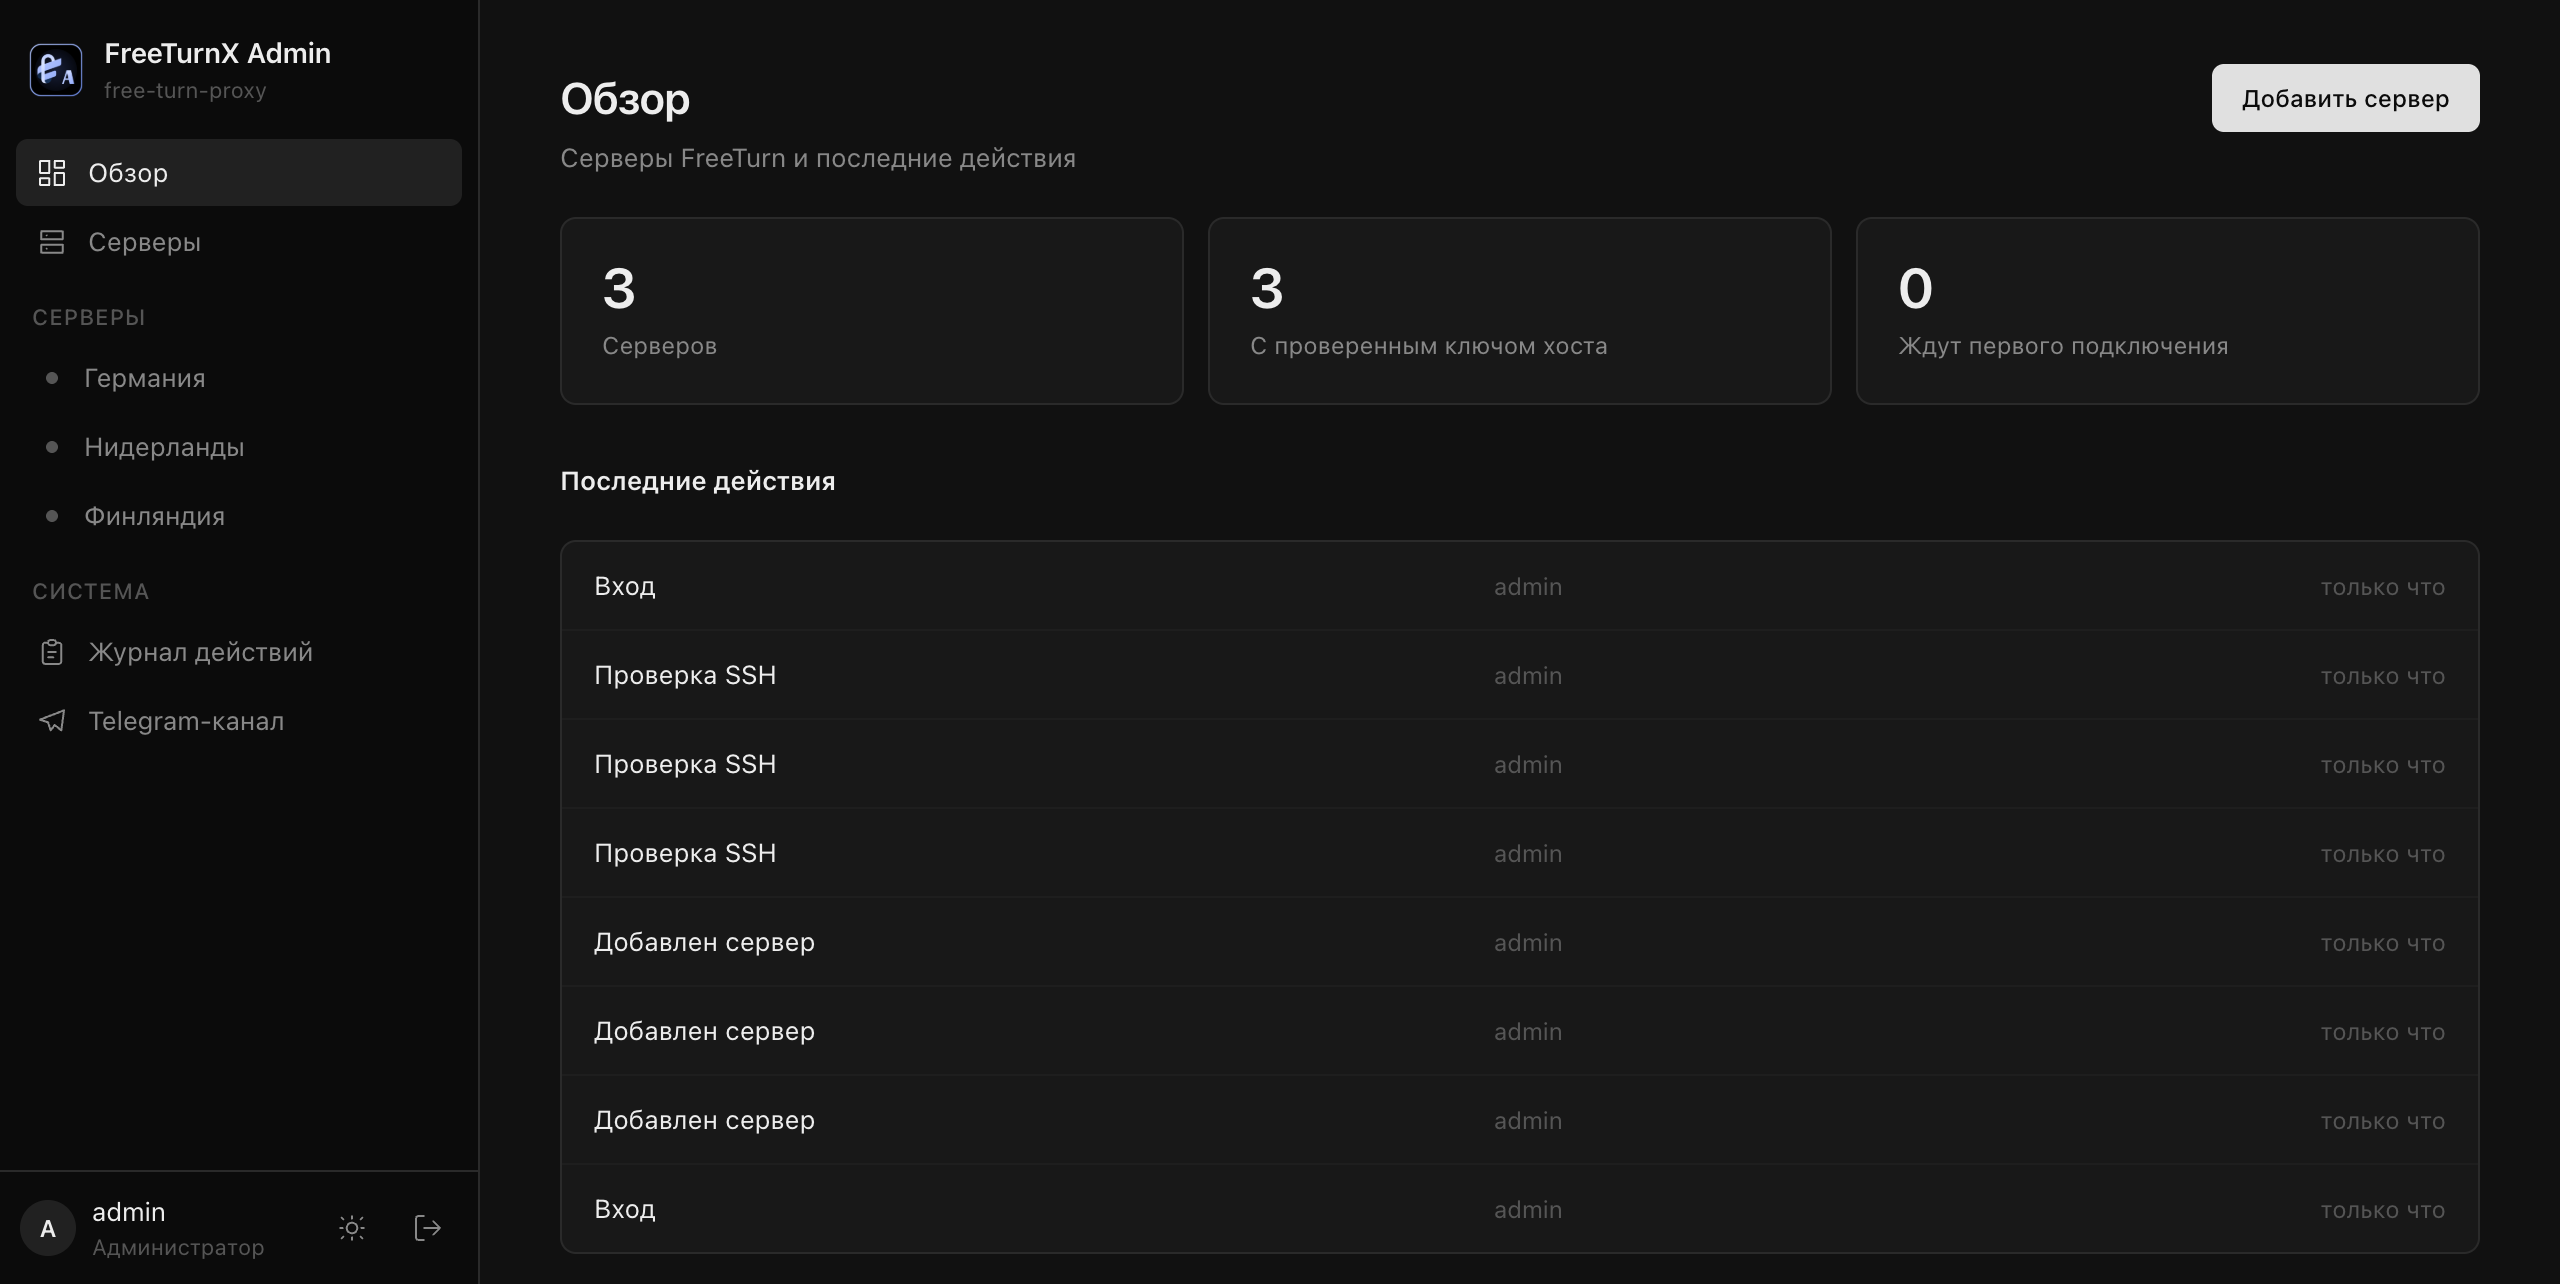
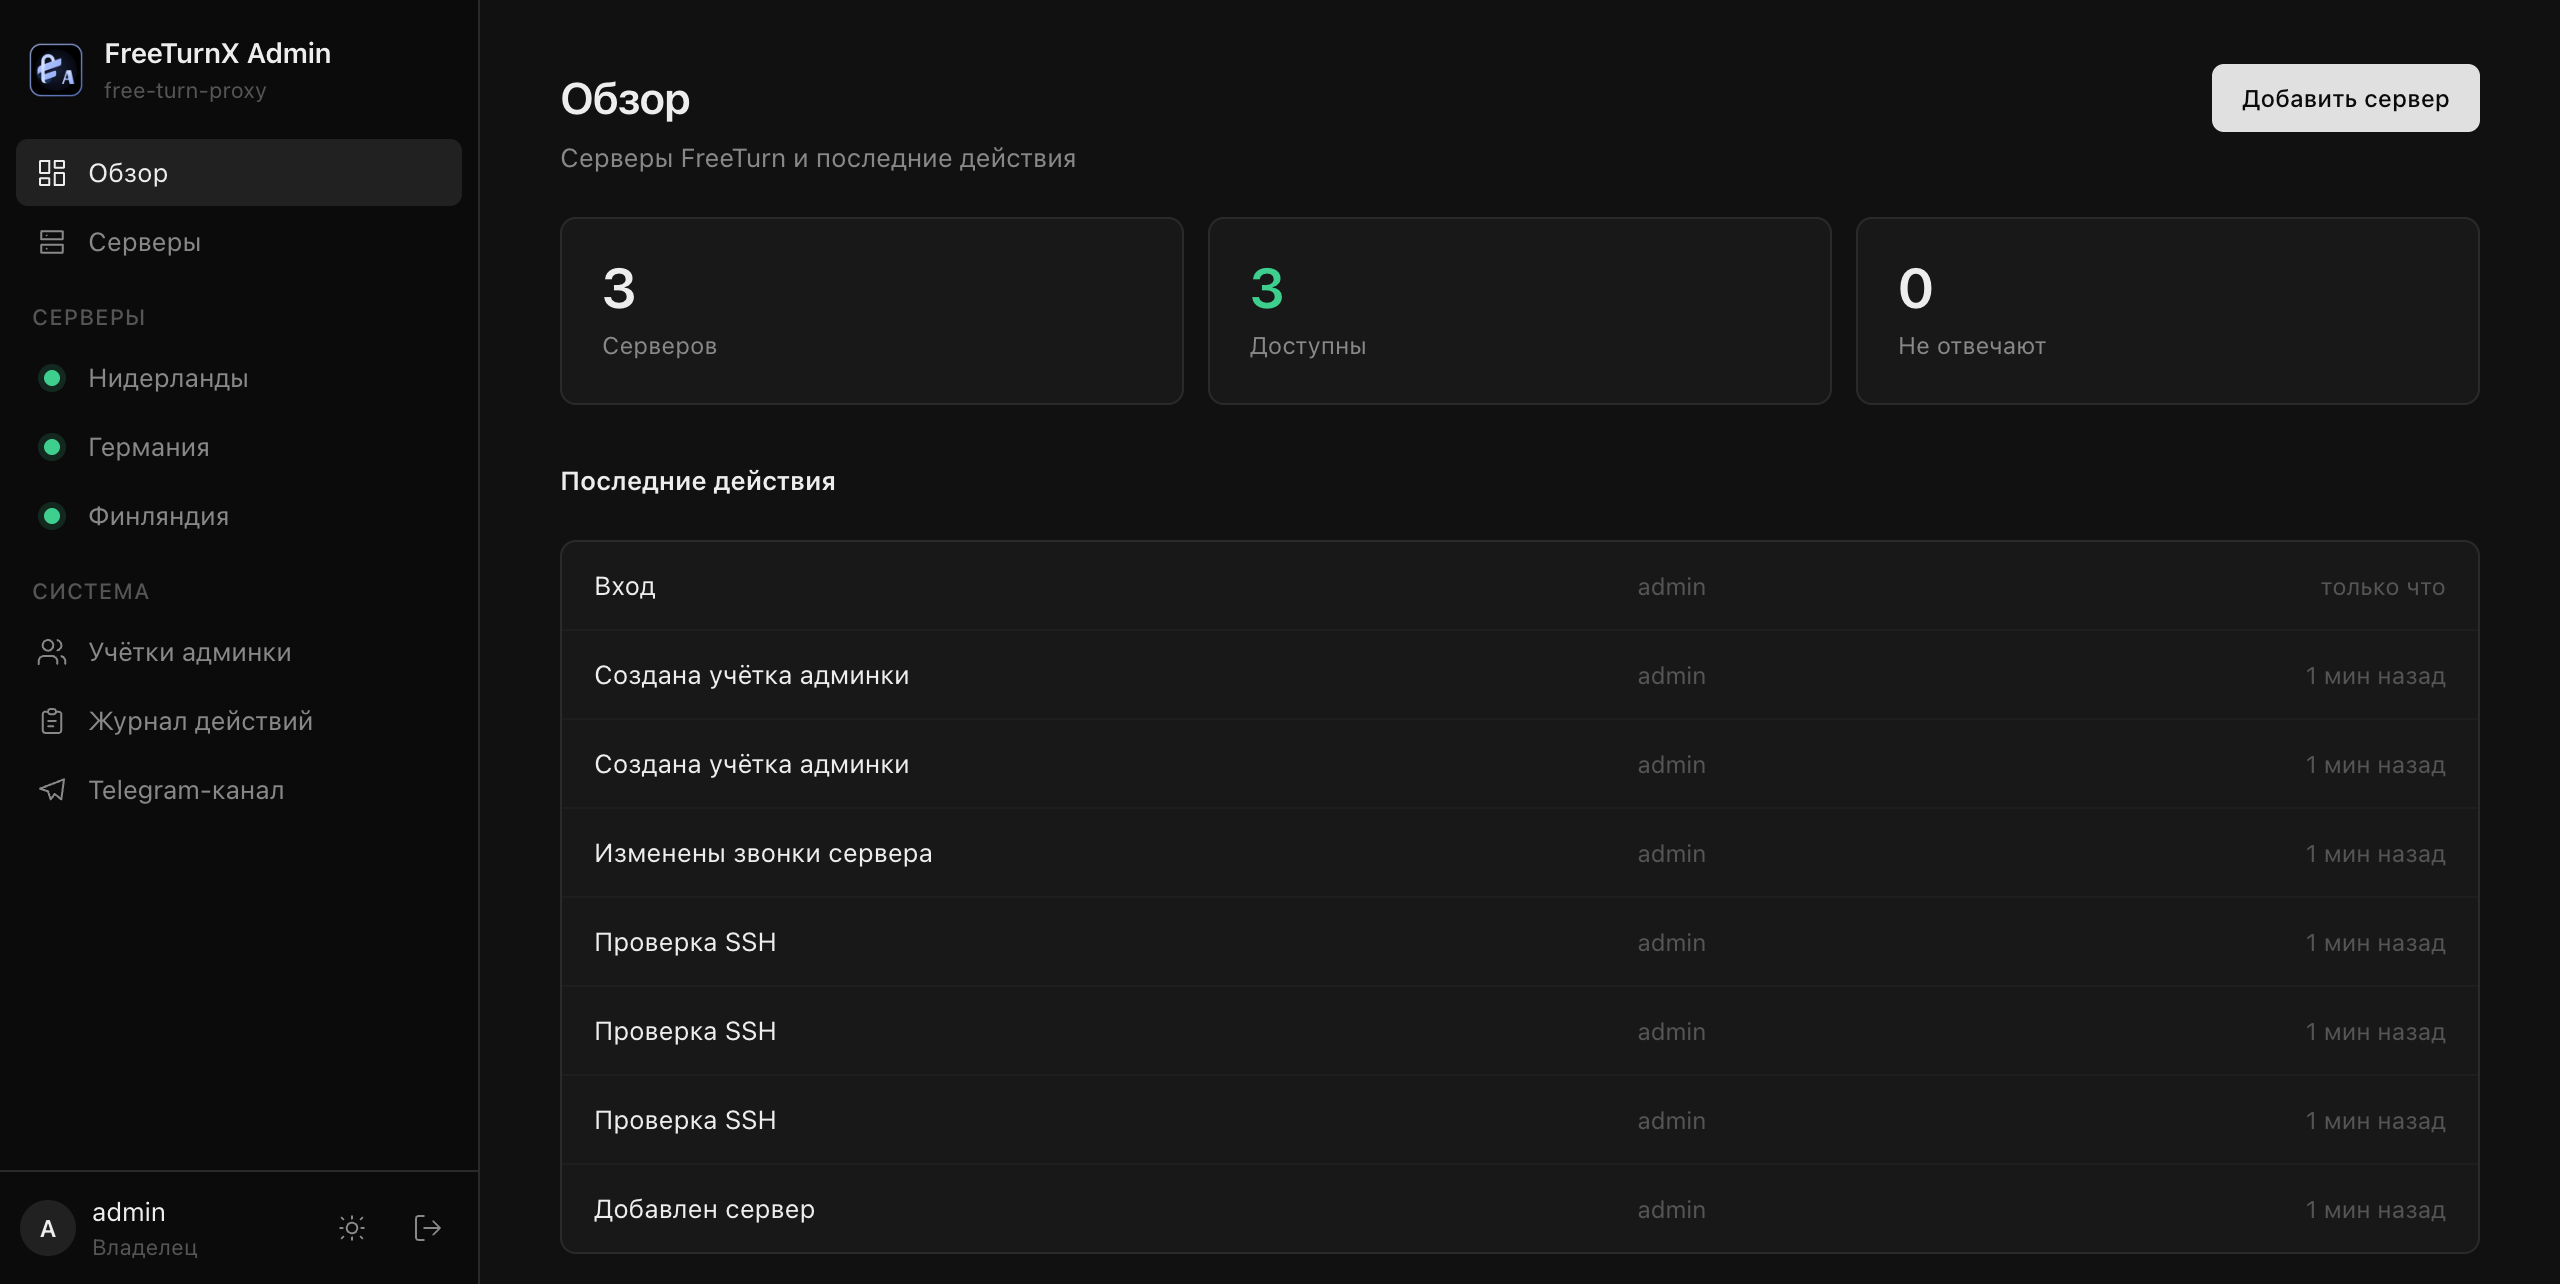
Remove the roles legend; inline role select styling; call audit label; fresh README screenshots

diff --git a/web/src/styles.css b/web/src/styles.css
@@ -297,7 +297,6 @@ code, .mono { font-family: var(--mono); font-size: 12px; }
 .qr { width: 240px; height: 240px; align-self: center; border-radius: var(--radius-md); background: #fff; image-rendering: pixelated; }
 .link-box { min-height: 90px; font-size: 11px; word-break: break-all; }
 @media (max-width: 760px) { .add-row { flex-direction: column; align-items: stretch; } }
-.select-inline { width: auto; padding: 4px 8px; font-size: 12px; }
 
 /* ── Логотип под тему, доступность серверов ─────────────── */
 .logo { display: inline-flex; }
@@ -324,7 +323,12 @@ code, .mono { font-family: var(--mono); font-size: 12px; }
   background-size: 12px;
   cursor: pointer;
 }
-.select-inline { padding-right: 28px; background-position: right 8px center; }
+/* Компактный список в таблице (роль): та же высота, что у бейджа-кнопки, стрелка с отступом. */
+.select-inline {
+  width: auto; min-width: 150px; height: 30px;
+  padding: 0 30px 0 10px; line-height: 28px; font-size: 12px;
+  background-color: var(--bg-base); background-position: right 10px center; background-size: 11px;
+}
 
 /* ── Звонки сервера ─────────────────────────────────────── */
 .call-row { display: grid; grid-template-columns: 1fr 2fr auto; gap: 8px; align-items: center; }

diff --git a/web/src/pages/Admins.tsx b/web/src/pages/Admins.tsx
@@ -1,4 +1,4 @@
-import { Fragment, useCallback, useEffect, useState, type FormEvent } from "react";
+import { useCallback, useEffect, useState, type FormEvent } from "react";
 import { Icon } from "../components/Icon";
 import { Modal } from "../components/Modal";
 import { api, ApiError, canManageAdmins, ROLE_NAMES, type AdminAccount, type Role } from "../lib/api";
@@ -174,11 +174,6 @@ export function AdminsPage() {
             })}
           </tbody>
         </table>
-      </div>
-      <div className="card card-body">
-        <dl className="kv">
-          {(Object.keys(ROLE_NAMES) as Role[]).map((r) => <Fragment key={r}><dt>{ROLE_NAMES[r]}</dt><dd>{ROLE_HINTS[r]}</dd></Fragment>)}
-        </dl>
       </div>
       {modal === "new" && <Modal title="Новая учётка" onClose={() => setModal("")}><NewAdminForm onDone={() => { setModal(""); refresh(); }} /></Modal>}
       {modal === "password" && <Modal title="Сменить мой пароль" onClose={() => setModal("")}><PasswordForm onDone={() => { setModal(""); setDone("Пароль изменён."); }} /></Modal>}

diff --git a/web/src/lib/format.ts b/web/src/lib/format.ts
@@ -25,6 +25,7 @@ export const ACTIONS: Record<string, string> = {
   "server.uninstall": "Удаление FreeTurn",
   "user.add": "Выдан доступ",
   "user.remove": "Отозван доступ",
+  "server.calls": "Изменены звонки сервера",
   "admin.create": "Создана учётка админки",
   "admin.update": "Изменена учётка админки",
   "admin.delete": "Удалена учётка админки",

diff --git a/README.md b/README.md
@@ -13,6 +13,7 @@
   UDP/TCP, порт, обфускация с генерацией ключа, обновление), перезапуск, остановка, удаление, журнал сервера;
 - пользователи сервера: список с «был в сети», выдача доступа ссылкой `freeturn://` и QR (по желанию — с вложенной
   ссылкой на звонок, как в клиентах), отзыв.
+- звонки сервера: список ссылок на звонки (хранятся зашифрованными), окно доступа предлагает их одним нажатием;
 - учётки админки с ролями: владелец (первый администратор), администратор (всё, включая учётки),
   оператор (серверы и их пользователи, учётки только просматривает); смена своего пароля;
 - доступность серверов в списке: зелёная точка — SSH отвечает (проверка раз в 15 с, красная — после двух неудач подряд);
@@ -28,8 +29,10 @@
 | Обзор | Сервер |
 |---|---|
 | ![Обзор](docs/screenshots/dashboard.png) | ![Сервер](docs/screenshots/server.png) |
-| **Пользователи** | **Установка и настройки** |
-| ![Пользователи](docs/screenshots/users.png) | ![Установка](docs/screenshots/install.png) |
+| **Пользователи** | **Выдача доступа со звонком** |
+| ![Пользователи](docs/screenshots/users.png) | ![Доступ](docs/screenshots/share.png) |
+| **Установка, настройки и звонки** | **Учётки админки** |
+| ![Установка](docs/screenshots/install.png) | ![Учётки](docs/screenshots/admins.png) |
 
 ## Запуск
 
